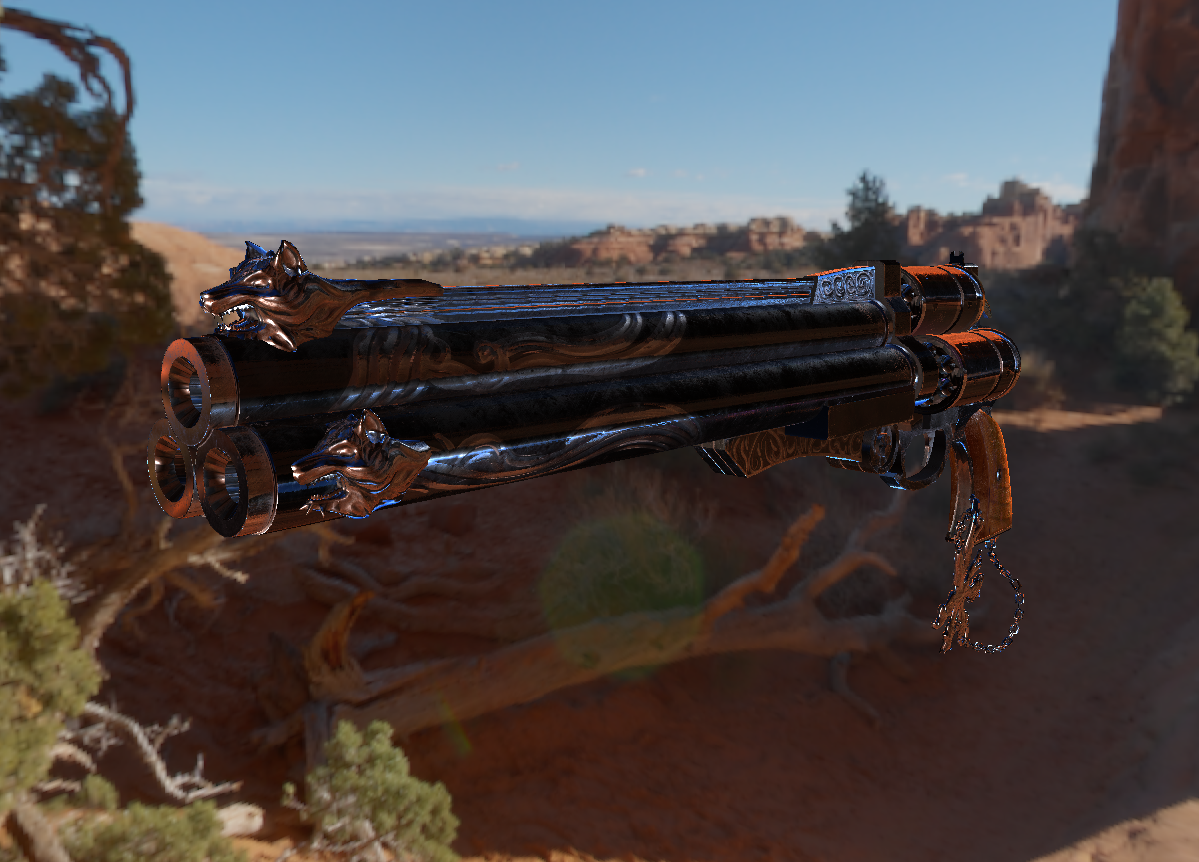
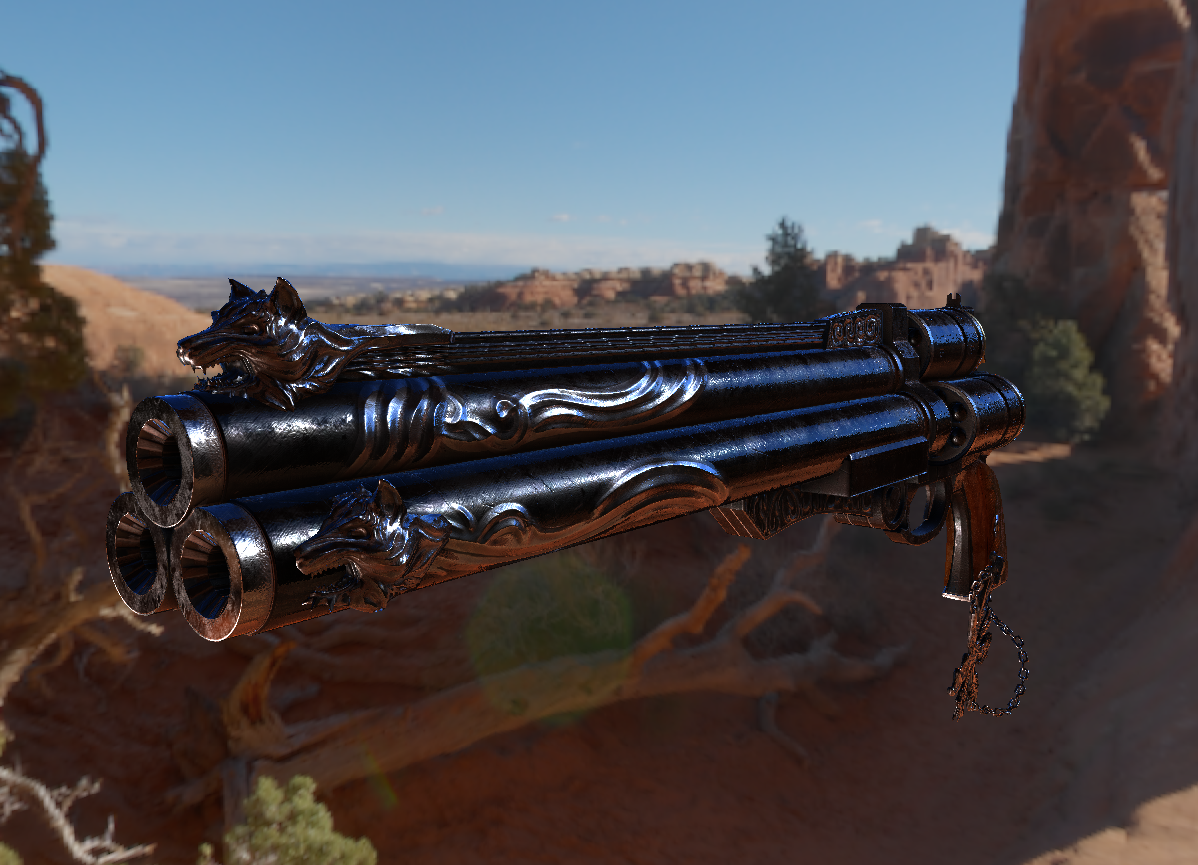
Normals fixed

diff --git a/Engine/Source/engine.cpp b/Engine/Source/engine.cpp
@@ -240,6 +240,7 @@ void Application::Update()
 {
     camera.Update(deltaTime);
 
+    forwardPassFbo->Resize(viewportSize.x, viewportSize.y);
     gBufferFbo->Resize(viewportSize.x, viewportSize.y);
     deferredPassFbo->Resize(viewportSize.x, viewportSize.y);
     postProcessFbo->Resize(viewportSize.x, viewportSize.y);
@@ -419,7 +420,7 @@ void Application::Render()
     glBindVertexArray(screenSpaceVao);
     bool isDeferred = renderPath == RenderPath::DEFERRED;
 
-    std::shared_ptr<Framebuffer> currentGBufferFbo = isDeferred ? ssaoProps.enabled ? ssaoGBufferFbo : gBufferFbo : forwardPassFbo;
+    std::shared_ptr<Framebuffer> currentGBufferFbo = isDeferred ? gBufferFbo : forwardPassFbo;
 
     // Since the deferred pass only outputs a color texture, we only need to check wether to use one or another.
     // For the rest it's safe to get them from the G-buffer
@@ -736,11 +737,15 @@ void Application::OnImGuiRender()
                     if (ImGui::CollapsingHeader(mesh->GetName().c_str()))
                     {
                         ImGui::PushID(i);
-                        if (ImGui::TreeNodeEx("Material"))
                         {
+                            ImGui::Text("Albedo Color:");
+                            ImGui::SetNextItemWidth(128);
+                            ImGui::ColorPicker3("Color", glm::value_ptr(mat->GetAlbedoColor()));
+
                             ImGui::Text("Albedo Map:");
                             if (auto albedoMap = mat->GetAlbedoMap())
                                 ImGui::Image((ImTextureID)albedoMap->GetId(), { 128,128 });
+                            
                             if (ImGui::Button("Change"))
                             {
                                 showTexturesPanel = true;
@@ -811,8 +816,6 @@ void Application::OnImGuiRender()
                             ImGui::Dummy({ 0,3.5 });
                             ImGui::Separator();
                             ImGui::Dummy({ 0,1.75 });
-
-                            ImGui::TreePop();
                         }
                         ImGui::PopID();
 
@@ -947,7 +950,6 @@ void Application::RenderDeferredPipeline()
 
     // 3. Do light calclulations with G-Buffer data-------------------------------
 
-    //glMemoryBarrier(GL_SHADER_IMAGE_ACCESS_BARRIER_BIT);
     glPushDebugGroup(GL_DEBUG_SOURCE_APPLICATION, 3, -1, "Deferred pass");
 
     deferredPassFbo->Bind();
@@ -955,9 +957,6 @@ void Application::RenderDeferredPipeline()
     glClear(GL_COLOR_BUFFER_BIT | GL_DEPTH_BUFFER_BIT);
 
     deferredPassShader->Bind();
-    deferredPassShader->SetUniform1i("renderTarget", currentRenderTargetId);
-    deferredPassShader->SetUniform1i("renderMode", currentRenderTargetId);
-    glBindVertexArray(screenSpaceVao);
 
     glActiveTexture(GL_TEXTURE0);
     glBindTexture(GL_TEXTURE_2D, gBufferFbo->GetColorAttachment());
@@ -970,8 +969,6 @@ void Application::RenderDeferredPipeline()
     glActiveTexture(GL_TEXTURE2);
     glBindTexture(GL_TEXTURE_2D, gBufferFbo->GetPositionAttachment());
     deferredPassShader->SetUniform1i("uPositionTexture", 2);
-
-
 
     glActiveTexture(GL_TEXTURE3);
     glBindTexture(GL_TEXTURE_2D, gBufferFbo->GetMetallicAttachment());
@@ -995,16 +992,11 @@ void Application::RenderDeferredPipeline()
     glBindTexture(GL_TEXTURE_2D, skyboxFbo->GetColorAttachment());
     deferredPassShader->SetUniform1i("uSkybox", 8);
 
-    //deferredPassShader->SetUniform1i("uSsaoEnabled", ssaoProps.enabled);
-    //glActiveTexture(GL_TEXTURE9);
-    //glBindTexture(GL_TEXTURE_2D, blurredSsaoFbo->GetColorAttachment());
-    //deferredPassShader->SetUniform1i("uSSAOTexture", 9);
-
     glActiveTexture(GL_TEXTURE9);
     glBindTexture(GL_TEXTURE_2D, gBufferFbo->GetDepthAttachment());
     deferredPassShader->SetUniform1i("uDepthTexture", 9);
 
-
+    glBindVertexArray(screenSpaceVao);
     globalParamsUbo->BindRange(0, globalParamsOffset, globalParamsSize);
 
     glDisable(GL_DEPTH_TEST);

diff --git a/Engine/Source/Resources/Material.h b/Engine/Source/Resources/Material.h
@@ -21,7 +21,8 @@ public:
 	inline const std::string GetName() { return name; }
 
 	inline void SetAlbedoColor(const glm::vec3& albedo) { albedoColor = albedo; }
-	inline const glm::vec3& GetAlbedoColor() { return albedoColor; }
+	inline const glm::vec3& GetAlbedoColor() const { return albedoColor; }
+	inline glm::vec3& GetAlbedoColor() { return albedoColor; }
 
 	inline void SetEmissiveColor(const glm::vec3& emissive) { emissiveColor = emissive; }
 	inline const glm::vec3& GetEmissiveColor() { return emissiveColor; }
@@ -34,9 +35,6 @@ public:
 
 	inline void SetMetallicMap(const std::shared_ptr<Texture2D> metallicTexture) { metallicMap = metallicTexture; }
 	inline const std::shared_ptr<Texture2D>& GetMetallicMap() { return metallicMap; }
-
-	/*inline void SetAlbedoMap(const std::shared_ptr<Texture2D> albedoTexture) { albedoMap = albedoTexture; }
-	inline const std::shared_ptr<Texture2D>& GetAlbedoMap() { return albedoMap; }*/
 
 	inline void SetEmissiveMap(const std::shared_ptr<Texture2D> emissiveTexture) { emissiveMap = emissiveTexture; }
 	inline const std::shared_ptr<Texture2D>& GetEmissiveMap() { return emissiveMap; }
@@ -62,10 +60,11 @@ private:
 
 	std::shared_ptr<Texture2D> albedoMap;
 	std::shared_ptr<Texture2D> metallicMap;
-	//std::shared_ptr<Texture2D> roughnessMap;
-	std::shared_ptr<Texture2D> emissiveMap;
 	std::shared_ptr<Texture2D> roughnessMap;
 	std::shared_ptr<Texture2D> normalMap;
+
+
+	std::shared_ptr<Texture2D> emissiveMap;
 	std::shared_ptr<Texture2D> bumpMap;
 
 };
